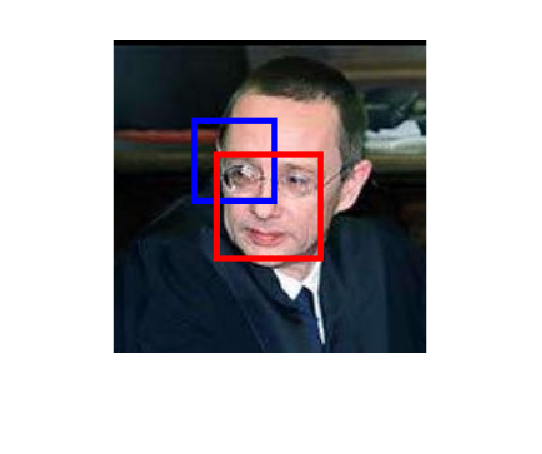
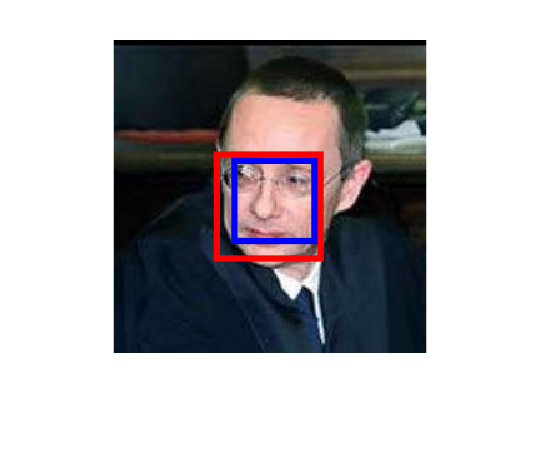
Trying assignment 2, Facerecog 61.26 hog svm

Changed region(s): [[0.3542, 0.2467, 0.5904, 0.5551]]

diff --git a/Assignment1.m b/Assignment1.m
@@ -19,6 +19,7 @@
 % - val_dir is the validation set of real images
 %==========================================================================
 clear all
+close all
 clc
 run ICV_setup
 % The relevant data directory
@@ -75,7 +76,7 @@ parfor i=1:nFace                     % Uncomment it to try parallel for-loop to 
     Xtr = [Xtr;temp(:)'];
 end
 
-disp(size(Xtr));
+% disp(size(Xtr));
 % imshow(reshape(Xtr(1,:),[64,64]));
 
 % load non_face_images
@@ -102,8 +103,8 @@ end
 
 % Create the labelled image
 Ytr = [ones(nFace,1);-1*ones(count,1)];
-disp(size(Xtr));
-disp(size(Ytr));
+% disp(size(Xtr));
+% disp(size(Ytr));
 
 %% Training the Face Detector
 %==========================================================================
@@ -158,13 +159,23 @@ for k=1:length(val_file)
     % Get the positive probability for proposed faces
     Xte = Xte';    
     [l,score] = predict(Mdl,Xte);
-    prob2 = score(:,1);
-    for probi = 1:1:length(prob2)
-        prob2(probi) = 1/(1 + exp(prob2(probi)));
-    end
+    prob2 = score(:,2);
+    
+%     prob2 = score(:,1);
+% %     mu = 0;
+% %     sigma = 0.1;
+%     for probi = 1:1:length(prob2)
+%         prob2(probi) = 1/(1 + exp(-1 * abs(prob2(probi))));
+% %         prob2(probi) = (-0.5 * (prob2(probi) - mu)/sigma) / (sigma * sqrt(2 * pi));
+%     end
+    
+%     prob2 = score(:,1);
+%     for probi = 1:1:length(prob2)
+%         prob2(probi) = 1/(1 + exp(prob2(probi)));
+%     end
     
 %     Setting a threshold to pick the proposed face images
-    threshold = 0.4;
+    threshold = 0.5;
     threshold_bbox=bbox_ms(prob2>threshold,:);
     prob3=prob2(prob2>threshold,:);
 
@@ -243,6 +254,13 @@ for k=1:length(val_file2)
 
         [~,score] = predict(Mdl,Xte);
         prob2 = score(:,2);
+        
+%         prob2 = score(:,1);
+%         for probi = 1:1:length(prob2)
+%             prob2(probi) = 1/(1 + exp(prob2(probi)));
+%         end
+        
+        
     
         % Getting the True positive, condition positive, predicted positive
         % number for evaluating the algorithm performance via Average 

diff --git a/sw_detect_face.m b/sw_detect_face.m
@@ -20,8 +20,8 @@ real_image = img;
 
 % single-scale sliding window
 [irow, icol] = size(img);
-window_size = int16(window_size / scale);
-stride = int16(stride / scale);
+% window_size = int16(window_size / scale);
+% stride = int16(stride / scale);
 window_r = window_size(1);
 window_c = window_size(2);
 
